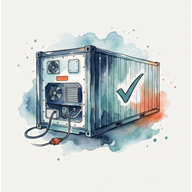
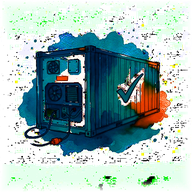
Tier numbers on both sides, SF on Special, iPhone name field, splash without frame
- Bay view: tier numbers also on the right of the grid, readable when scrolled.
- Special type SF / SUPERFREEZER maps to superfreezer (v30 workbook); Issues
  Special section includes superfreezers; legend says "superfreezer (SF)".
- Name field (gate + Plan): uncontrolled input, autocorrect and spellcheck off,
  60 chars. iPhone lost the second word when autocorrect replaced it on space.
- App icons 192/512 with a transparent background, so the launch splash shows
  no square frame; service worker cache v3 to pick them up.

diff --git a/app/src/components/PlanPanel.tsx b/app/src/components/PlanPanel.tsx
@@ -10,6 +10,7 @@ import { askPortChange } from '../portAsk';
 import { fmtPos } from '../view';
 import { QrReceive, QrSend } from './QrTransfer';
 import { iosBrowser, isIOS, isStandalone } from '../platform';
+import { NAME_INPUT } from '../nameInput';
 
 /** iPhone in a browser tab: how to get the app on the home screen (own window, data kept). */
 function IosInstall() {
@@ -263,7 +264,7 @@ export function PlanPanel() {
         <h3>Your name</h3>
         <p class="muted small">Written next to every mark in the log. Not an account: it is stored only on this phone.</p>
         <div class="row-inline">
-          <input class="grow text" value={name} maxLength={40} placeholder="e.g. ETO Andrii" onInput={e => setName((e.target as HTMLInputElement).value)} />
+          <input class="grow text" defaultValue={user} {...NAME_INPUT} onInput={e => setName((e.target as HTMLInputElement).value)} />
           <button class="small-btn" onClick={() => setUser(name)} disabled={!name.trim() || name.trim() === user}>Save</button>
         </div>
       </div>
@@ -277,7 +278,7 @@ export function PlanPanel() {
           <span><i class="dot c-pharma" />pharma</span>
           <span><i class="dot c-ct" />CT</span>
           <span><i class="dot c-ca" />CA / O2-CO2</span>
-          <span><i class="dot c-superfreezer" />superfreezer</span>
+          <span><i class="dot c-superfreezer" />superfreezer (SF)</span>
           <span><b class="restow-sample">R</b> restow</span>
           <span><b class="tdiff-sample">T</b> temp differs</span>
           <span><b class="ok">✓</b> connected</span>

diff --git a/app/src/app.tsx b/app/src/app.tsx
@@ -8,6 +8,7 @@ import { Overview } from './components/Overview';
 import { ContainerSheet } from './components/ContainerSheet';
 import { PlanPanel } from './components/PlanPanel';
 import { isIOS, isStandalone } from './platform';
+import { NAME_INPUT } from './nameInput';
 
 /** iPhone browser tab (not the home-screen app): show the install hint. */
 const iosTab = isIOS() && !isStandalone();
@@ -19,7 +20,7 @@ function NameGate() {
       <form class="sheet name-gate" onSubmit={e => { e.preventDefault(); if (name.trim()) setUser(name); }}>
         <h2>Who is using this phone?</h2>
         <p class="muted small">Your name is written next to every mark in the activity log, so the team can see who checked what. It stays on this phone only.</p>
-        <input class="text" autoFocus value={name} maxLength={40} placeholder="e.g. ETO Andrii" onInput={e => setName((e.target as HTMLInputElement).value)} />
+        <input class="text" autoFocus {...NAME_INPUT} onInput={e => setName((e.target as HTMLInputElement).value)} />
         <button class="big-btn" type="submit" disabled={!name.trim()}>Continue</button>
       </form>
     </div>

diff --git a/app/src/components/Lists.tsx b/app/src/components/Lists.tsx
@@ -84,7 +84,7 @@ export function Issues({ plan, filter, onOpen, now }: { plan: Plan; filter: Filt
   const attention = rs(r => r.attention !== null);
   const tdiff = rs(r => r.tempDiff);
   const restow = rs(r => restowHere(r, filter));
-  const special = rs(r => ['ct', 'ca', 'pharma'].includes(categoryOf(r)));
+  const special = rs(r => ['ct', 'ca', 'pharma', 'superfreezer'].includes(categoryOf(r)));
 
   const section = (title: string, list: Reefer[], hint?: string, cls = '') => list.length > 0 && (
     <div class={`card ${cls}`}>
@@ -118,7 +118,7 @@ export function Issues({ plan, filter, onOpen, now }: { plan: Plan; filter: Filt
       {section('Attention list (Excel)', attention)}
       {section('Temperature differs (BAP vs manifest)', tdiff)}
       {section('Restow', restow)}
-      {section('Special (pharma / CT / CA)', special)}
+      {section('Special (pharma / CT / CA / SF)', special)}
       {!anything && <p class="muted">Nothing to show for this filter.</p>}
     </div>
   );

diff --git a/app/src/model.ts b/app/src/model.ts
@@ -1,6 +1,6 @@
 // Data model shared by the parser, the store and the UI.
 
-export type SpecialType = 'CT' | 'CA' | 'PHARMA' | '';
+export type SpecialType = 'CT' | 'CA' | 'PHARMA' | 'SF' | '';
 
 export interface Reefer {
   cont: string;          // full container number, e.g. ABCU1234567 (key for marks)
@@ -21,7 +21,7 @@ export interface Reefer {
   co2: number | null;
   special: SpecialType | string; // type from Special sheet ('' = none)
   attention: string | null;      // note from ATTENTION sheet (null = not listed)
-  posNote: string;               // note from Notes sheet (e.g. PIGTAIL)
+  posNote: string;               // note from Notes sheet (any position note)
   restow: string;                // '' | AUTO | PLANNER | ABOVE PLANNER
   /** only in the arrival plan (DISCHARGE sheet, or the previous plan for old files): to discharge, not in the final plan */
   carried?: boolean;

diff --git a/app/src/components/BayView.tsx b/app/src/components/BayView.tsx
@@ -86,7 +86,7 @@ export function BayView({ plan, bay, filter, quickMark, onOpen, onBay, now }: Pr
       <div class="grid-scroll">
         <table class="bay-grid">
           <thead>
-            <tr><th />{usedRows.map(row => <th>{pad2(row)}</th>)}</tr>
+            <tr><th />{usedRows.map(row => <th>{pad2(row)}</th>)}<th /></tr>
           </thead>
           <tbody>
             {tiers.map(t => (
@@ -99,6 +99,7 @@ export function BayView({ plan, bay, filter, quickMark, onOpen, onBay, now }: Pr
                     <td class="slot">{slotContent(c)}</td>
                   );
                 })}
+                <th class="tier-r">{pad2(t)}</th>
               </tr>
             ))}
           </tbody>

diff --git a/app/src/nameInput.ts b/app/src/nameInput.ts
@@ -1,0 +1,9 @@
+/** Name field: uncontrolled (no value written back while typing) and no autocorrect.
+ *  iPhone (WhatsApp in-app browser) lost the second word: autocorrect replaced the word on space
+ *  while the controlled value was being re-set. */
+export const NAME_INPUT = {
+  type: 'text', maxLength: 60, placeholder: 'e.g. ETO Andrii Petrenko',
+  autocomplete: 'off', autocapitalize: 'words', spellcheck: false, enterkeyhint: 'done',
+  // set as an attribute: newer browsers have a boolean `autocorrect` property, where 'off' would read as true
+  ref: (el: HTMLInputElement | null) => el?.setAttribute('autocorrect', 'off'),
+} as const;

diff --git a/app/src/view.ts b/app/src/view.ts
@@ -10,6 +10,8 @@ export function categoryOf(r: Reefer): Category {
     const s = r.special.toUpperCase();
     if (s === 'CT') return 'ct';
     if (s === 'CA') return 'ca';
+    // v30 workbook: superfreezers come onto Special as SF (gas reefers as CA)
+    if (s === 'SF' || s === 'SUPERFREEZER') return 'superfreezer';
     return 'pharma';
   }
   if (r.temp !== null && r.temp <= -50) return 'superfreezer';

diff --git a/app/public/sw.js b/app/public/sw.js
@@ -1,6 +1,6 @@
 // Offline cache for the app shell. Plan data is never fetched over the network:
 // it lives in the phone's local storage only.
-const CACHE = 'reefer-check-v2';
+const CACHE = 'reefer-check-v3';
 
 self.addEventListener('install', event => {
   event.waitUntil(caches.open(CACHE).then(c => c.addAll(['./', './index.html', './manifest.webmanifest', './icon-512.png'])));

diff --git a/app/src/store.ts b/app/src/store.ts
@@ -160,7 +160,7 @@ export function getState(): State {
 // ---------------------------------------------------------------- user + log
 
 export function setUser(name: string) {
-  const user = name.trim().slice(0, 40);
+  const user = name.trim().replace(/\s+/g, ' ').slice(0, 60);
   state = { ...state, user };
   save(K_USER, user);
   emit();
